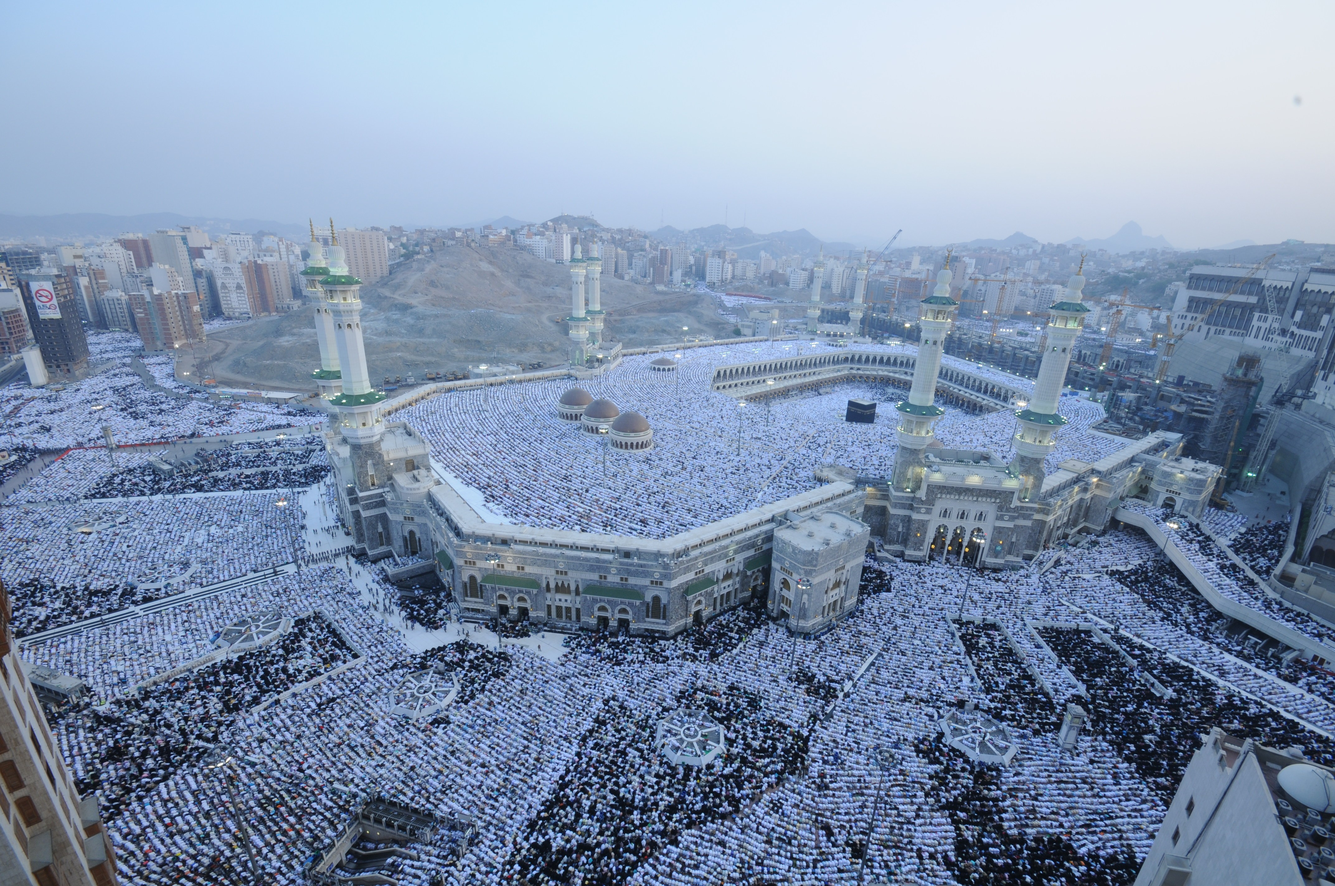
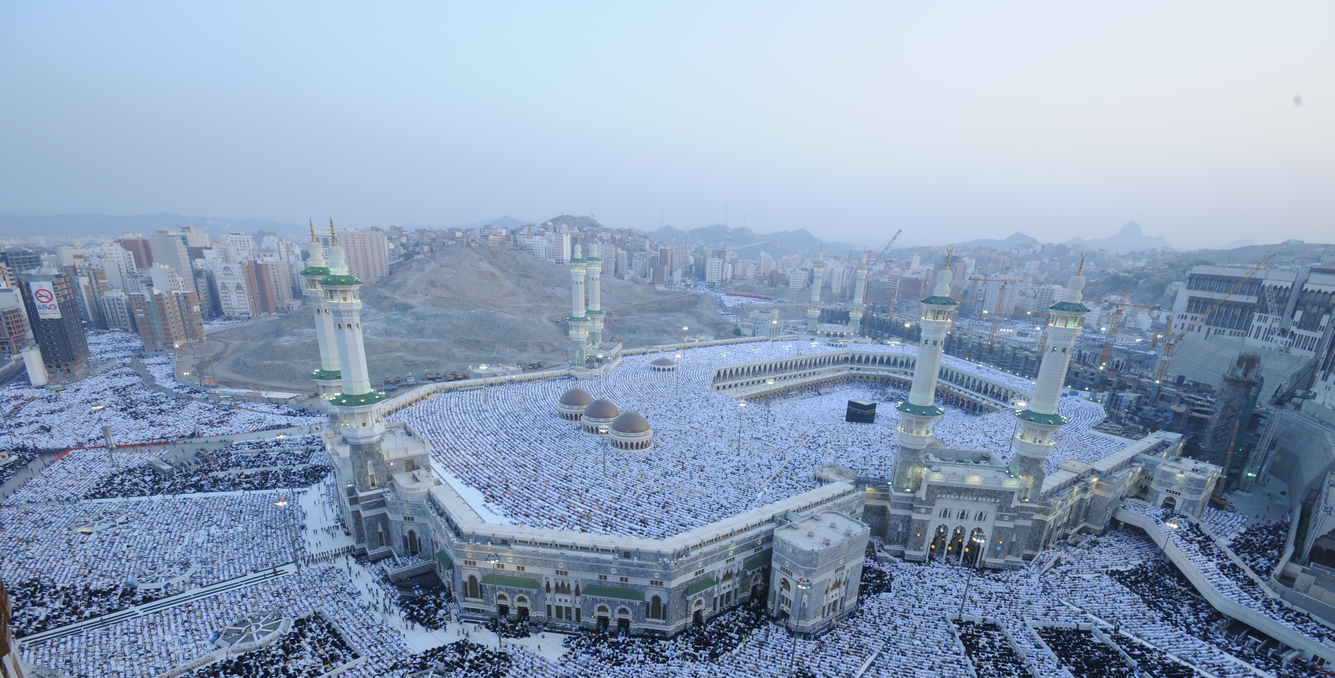
finish fourlines

diff --git a/Client/src/page/Homepage.jsx b/Client/src/page/Homepage.jsx
@@ -1,5 +1,6 @@
 import React, { useEffect, useState } from "react";
 import axios from "axios";
+import gsap from "gsap";
 
 function Homepage() {
    
@@ -21,27 +22,66 @@ function Homepage() {
     }
 
 
-    useEffect( () => {
+    useEffect(() => {
         takeFaq();
+
+        // GSAP animation for the mainContainer
+        gsap.from(".mainContainer", {
+                opacity: 0,
+                duration: 1,
+                ease: "power3.out",
+            })
+            gsap.from(".absoluteContainer", {
+                opacity: 0,
+                delay: 0.2,
+                duration: 1,
+                ease: "power3.out",
+            })
+            gsap.from(".absoluteContainer > h1", {
+                opacity: 0,
+                delay: 1,
+                duration: 1,
+                ease: "power3.out",
+            })
+            gsap.from(".absoluteContainer > h2", {
+                opacity: 0,
+                delay: 1.2,
+                duration: 1,
+                ease: "power3.out",
+            })
+            gsap.from(".absoluteContainer > img", {
+                opacity: 0,
+                delay: 1.5,
+                duration: 1,
+                ease: "power3.out",
+            })
+            gsap.from("#inImageButton", {
+                opacity: 0,
+                delay: 3,
+                duration: 1,
+                ease: "power3.out",
+            })
     }, []);
 
 
     return (
         <div className="Homepage">
 
+            <div className="mainContainer">
             <img src="http://localhost:3000/image/makkah.jpg" alt="Makkah Image" id="mainImage" />
 
-            <div className="absoluteContainer">
-                <img src="http://localhost:3000/image/logoFourlinesCut.png" alt="Logo forulines" id="logoFourlinesCut" />
-                <img src="http://localhost:3000/image/logoAljuhani.png" alt="logo al juhani" id="logoAljuhani" />
-                <h1>Umroh / Haji Bersama Fourlines</h1>
-                <h2>Travel B2B yang Menyediakan Harga Hotel Terbaik di Indonesia</h2>
-                <button id="inImageButton">
-                    <p>OUR HOTELS</p>
-                    <div>
-                        <img src="http://localhost:3000/icon/arrowRightLight.png" alt="Arrow Right Icon" id="arrowRightIcon" />
-                    </div>
-                </button>
+<div className="absoluteContainer">
+    <img src="http://localhost:3000/image/logoFourlinesCut.png" alt="Logo forulines" id="logoFourlinesCut" />
+    <img src="http://localhost:3000/image/logoAljuhani.png" alt="logo al juhani" id="logoAljuhani" />
+    <h1>Umroh / Haji Bersama Fourlines</h1>
+    <h2>Travel B2B yang Menyediakan Harga Hotel Terbaik di Indonesia</h2>
+    <button id="inImageButton" onClick={() => window.location.href = "/hotels"}>
+        <p>Hotels</p>
+        <div>
+            <img src="http://localhost:3000/icon/arrowRightLight.png" alt="Arrow Right Icon" id="arrowRightIcon" />
+        </div>
+    </button>
+</div>
             </div>
 
             <h3 className="divHeading">SERVICES</h3>

diff --git a/Client/src/style/index.css b/Client/src/style/index.css
@@ -172,9 +172,7 @@ button {
 }
 
 #mainImage {
-    height:90vh;
     width: 100%;
-    object-fit: cover;
 }
 
 .absoluteContainer > * {
@@ -219,14 +217,13 @@ button {
     align-items: center;
     flex-direction: row;
     padding: 0;
-    width: 16vw;
+    width: 13vw;
     height: 7vh;
     overflow: hidden;
     background-color: rgba(255, 255, 255, 0.747);
     border-radius: 10px;
     top: 90vh;
     right: 7vw;
-    transition: 0.2s;
 }
 
 #inImageButton *{
@@ -271,8 +268,12 @@ button {
 .divHeading{
     font-weight: 400;
     font-size: 2vw;
-    color: #CF9F51;
+    color: #252B69;
+    width: 12%;
+    text-align: center;
+    border-bottom: 1px solid #CF9F51;
     margin: 10vh;
+    border-radius: 5px;
 }
 
 .servicesContainer{
@@ -298,6 +299,7 @@ button {
     margin: 0;
     margin-bottom: 2vh;
     font-weight: 400;
+    color: #CF9F51;
 }
 
 .servicesContainer img{
@@ -357,7 +359,7 @@ hr{
     padding-left: 1vw;
     padding-right: 1vw;
     width: 100%;
-    font-size: 1vw;
+    font-size: 1.5vw;
     margin-bottom: 2vh;
 }
 
@@ -395,4 +397,10 @@ hr{
     transform: 1s;
 }
 
-
+.servicesTitle{
+    font-weight: 400 !important;
+    width: 80%;
+    text-align: center;
+    color: #252B69;
+    border-bottom: 1px solid #CF9F51;
+}

diff --git a/Client/src/style/HotelDescriptionPage.module.css b/Client/src/style/HotelDescriptionPage.module.css
@@ -168,7 +168,6 @@
     display: flex;
     flex-direction: row;
     justify-content: space-between;
-    align-items: center;
     width: 100%;
     padding-bottom: 5vh;
     border-bottom: 3px solid #252B69;
@@ -182,6 +181,8 @@
 }
 
 .secondaryService{
+    position: sticky;
+    top: 12vh;
     padding-top: 3vh;
     padding-bottom: 3vh;
     width: 15%;
@@ -256,13 +257,16 @@
 
 /* REQEUST BUTTON */
 .requestButton{
-    width: 13vw;
-    height: 8vh;
+    width: 15vw;
+    height: 6vh;
+    background-color: transparent;
+    border: 1px solid #252B69;
+    border-radius: 10px;
+    font-size: 1.4vw;
+    font-weight: 400;
     background-color: #252B69;
     color: white;
-    font-size: 1.5vw;
-    border: none;
-    border-radius: 10px;
+    margin-top: 6vh;
     transition: 0.2s;
 }
 
@@ -270,7 +274,6 @@
     background-color: white;
     border: 1px solid #252B69;
     color: #252B69;
-    transition: 0.2s;
 }
 
 .hotelDescriptionPage a, .hotelDescriptionPage a:visited,.hotelDescriptionPage a:hover,.hotelDescriptionPage a:active {

diff --git a/Client/src/page/PriceListPage.jsx b/Client/src/page/PriceListPage.jsx
@@ -154,8 +154,8 @@ function PriceListPage() {
   }
 
   useEffect(() => {
-    if (!searchInput || listOfHotels.length <= 0) {
-      setSearchResults([]);
+    if (searchInput == "" || listOfHotels.length <= 0) {
+      setSearchResults(listOfHotelsCopy);
       return;
     }
 
@@ -193,7 +193,7 @@ function PriceListPage() {
               searchClicked();
             }
           }}>
-          <input placeholder='Search...' value={searchInput} onChange={() => changeInput(event)} />
+          <input placeholder='Search...' value={searchInput} onChange={(event) => changeInput(event)} />
           <div id={PriceListStyling.searchBarRight} onClick={() => {
             setInput("");
             searchClicked();

diff --git a/Client/src/components/Header.jsx b/Client/src/components/Header.jsx
@@ -38,7 +38,6 @@ function Header() {
                     <a href="/Articles">ARTICLE</a>
                     <a href="/Hotels" id={HeaderStyling.hotel}>HOTELS</a>
                     <a href="/AboutUs">ABOUT</a>
-                    <a href="/Admin">ADMIN</a>
                 </div>
             </header>
         </div>

diff --git a/Client/src/page/HotelDescriptionPage.jsx b/Client/src/page/HotelDescriptionPage.jsx
@@ -257,7 +257,7 @@ function HotelDescriptionPage() {
 
             {/* -------- DESCRIPTION AND SECONDARY SERVICE -------- */}
             <div className={styling.content}>
-
+                
                 {hotel &&
                     <p
                         className={styling.description}

diff --git a/Client/src/style/Price.module.css b/Client/src/style/Price.module.css
@@ -28,7 +28,7 @@
 
 .categoryDropdowns{
     position: absolute;
-    top: 25vh;
+    top: 20vh;
     border-radius: 20px;
     width: 8.8vw;
     border-top-right-radius: 0px;
@@ -153,5 +153,3 @@
 textarea:focus, input:focus{
     outline: none;
 }
-
-

diff --git a/Client/src/components/Price.jsx b/Client/src/components/Price.jsx
@@ -6,7 +6,7 @@ function Price(props){
     return(
         <div className={styling.price}>
             <h5>{props.header}</h5>
-            <p>{props.price}</p>
+            <p>{props.price} ر.س</p>
         </div>
     )
 }
